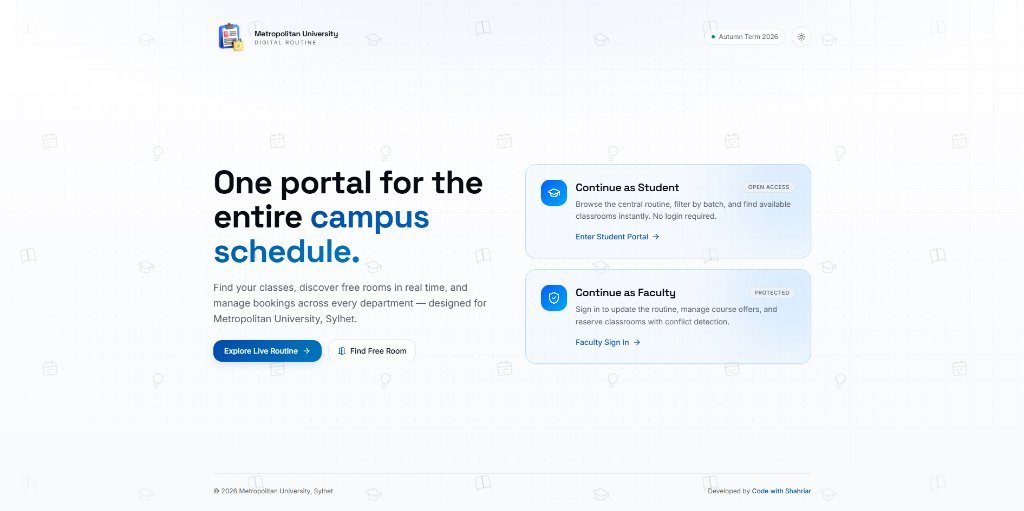
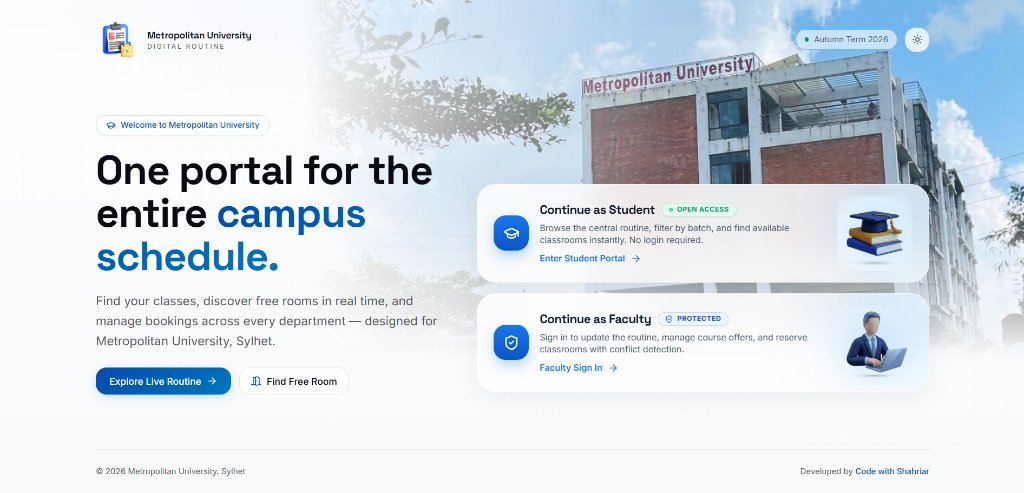
docs(readme): update Landing Portal screenshots with light and dark mode previews

diff --git a/src/routes/index.tsx b/src/routes/index.tsx
@@ -7,7 +7,6 @@ import {
   DoorOpen,
 } from "lucide-react";
 import { SpotlightCard } from "@/components/ui/motion";
-import { StudyDoodleBg } from "@/components/ui/study-doodle-bg";
 import { ThemeToggle } from "@/components/ui/theme-toggle";
 import { useInitData } from "@/lib/data/useInit";
 
@@ -60,22 +59,19 @@ function Landing() {
     <div className="min-h-screen bg-background bg-mesh relative overflow-hidden">
       {/* Blended Metropolitan University campus background */}
       <div className="absolute inset-0 pointer-events-none overflow-hidden">
-        <div className="absolute right-0 top-0 w-full lg:w-[66%] h-[62%] sm:h-[68%]">
+        <div className="absolute right-0 top-0 w-full lg:w-[70%] h-[64%] sm:h-[72%] [mask-image:linear-gradient(to_left,black_45%,transparent_100%)]">
           {/* Previous background kept as /campus-bg.jpg */}
           <img
             src="/campus-bg-alt.jpg"
             alt=""
             aria-hidden="true"
-            className="w-full h-full object-cover object-[65%_45%] opacity-85 dark:opacity-45 contrast-[1.06] saturate-[1.08]"
+            className="w-full h-full object-cover object-[65%_45%] opacity-85 dark:opacity-35 contrast-[1.06] saturate-[1.08] dark:brightness-90 dark:saturate-75 [mask-image:linear-gradient(to_bottom,black_55%,transparent_100%)]"
           />
-          <div className="absolute inset-0 bg-gradient-to-r from-background via-background/35 to-transparent dark:from-background dark:via-background/55" />
-          <div className="absolute inset-0 bg-gradient-to-t from-background via-transparent to-transparent" />
         </div>
       </div>
-      {/* Subtle minimal dot/grid texture, study doodles & clean ambient washes */}
+      {/* Subtle minimal dot/grid texture & clean ambient washes */}
       <div className="absolute inset-0 bg-dots opacity-65 dark:opacity-30 pointer-events-none [mask-image:radial-gradient(ellipse_at_center,black_40%,transparent_88%)]" />
       <div className="absolute inset-0 bg-grid opacity-55 dark:opacity-25 pointer-events-none [mask-image:radial-gradient(ellipse_at_top_right,black_25%,transparent_80%)]" />
-      <StudyDoodleBg />
       <div className="absolute inset-0 pointer-events-none overflow-hidden">
         <div className="hidden dark:block absolute -top-[18%] -right-[8%] w-[55vw] h-[55vw] max-w-[44rem] max-h-[44rem] rounded-full bg-primary/10 blur-[140px] animate-blob" />
         <div
@@ -284,12 +280,14 @@ function Student3DGraphic() {
   return (
     <div className="hidden sm:flex items-center justify-center shrink-0 w-24 h-24 lg:w-28 lg:h-28 relative pointer-events-none select-none transition-transform duration-500 group-hover:scale-105 group-hover:rotate-1">
       <div className="absolute inset-2 rounded-full bg-gradient-to-tr from-blue-500/15 to-sky-400/10 blur-xl" />
-      <img
-        src="/card-student-3d.jpg"
-        alt=""
-        aria-hidden="true"
-        className="relative w-full h-full object-contain mix-blend-multiply dark:mix-blend-normal dark:rounded-2xl [mask-image:radial-gradient(ellipse_at_center,black_62%,transparent_98%)]"
-      />
+      <div className="relative w-full h-full flex items-center justify-center dark:rounded-2xl dark:bg-slate-100/95 dark:p-1.5 dark:shadow-md">
+        <img
+          src="/card-student-3d.jpg"
+          alt=""
+          aria-hidden="true"
+          className="w-full h-full object-contain mix-blend-multiply [mask-image:radial-gradient(ellipse_at_center,black_62%,transparent_98%)] dark:[mask-image:none]"
+        />
+      </div>
     </div>
   );
 }
@@ -298,12 +296,14 @@ function Faculty3DGraphic() {
   return (
     <div className="hidden sm:flex items-center justify-center shrink-0 w-24 h-24 lg:w-28 lg:h-28 relative pointer-events-none select-none transition-transform duration-500 group-hover:scale-105 group-hover:-rotate-1">
       <div className="absolute inset-2 rounded-full bg-gradient-to-tr from-blue-600/15 to-sky-400/10 blur-xl" />
-      <img
-        src="/card-faculty-3d.jpg"
-        alt=""
-        aria-hidden="true"
-        className="relative w-full h-full object-contain mix-blend-multiply dark:mix-blend-normal dark:rounded-2xl [mask-image:radial-gradient(ellipse_at_center,black_62%,transparent_98%)]"
-      />
+      <div className="relative w-full h-full flex items-center justify-center dark:rounded-2xl dark:bg-slate-100/95 dark:p-1.5 dark:shadow-md">
+        <img
+          src="/card-faculty-3d.jpg"
+          alt=""
+          aria-hidden="true"
+          className="w-full h-full object-contain mix-blend-multiply [mask-image:radial-gradient(ellipse_at_center,black_62%,transparent_98%)] dark:[mask-image:none]"
+        />
+      </div>
     </div>
   );
 }

diff --git a/README.md b/README.md
@@ -25,9 +25,15 @@
 ## Portal Preview
 
 ### Landing Portal
-Clean entry experience with open-access Student Portal entry, protected Faculty Sign-In, light/dark theme toggle, and smooth right-to-left View Transitions.
+Clean entry experience with a blended Metropolitan University campus backdrop, frosted glass role cards, 3D illustrations, light/dark theme toggle, and smooth right-to-left View Transitions.
 
-![Landing Portal](docs/screenshots/landing-portal.jpg)
+**Light Mode**
+
+![Landing Portal - Light Mode](docs/screenshots/landing-portal.jpg)
+
+**Dark Mode**
+
+![Landing Portal - Dark Mode](docs/screenshots/landing-portal-dark.jpg)
 
 ### Student Dashboard
 Real-time overview of total scheduled classes, courses, departments, active rooms, live running classes for the current slot, and instant navigation to Routine, Rooms, Courses, and Analytics.
